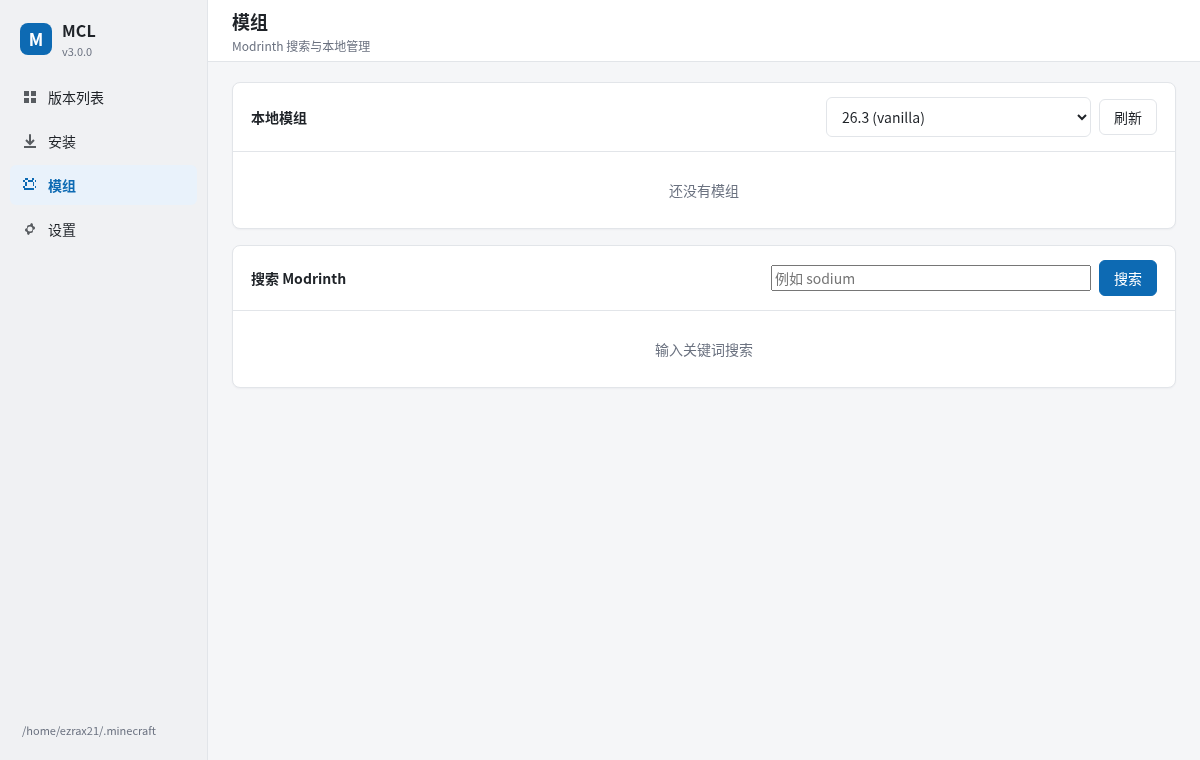
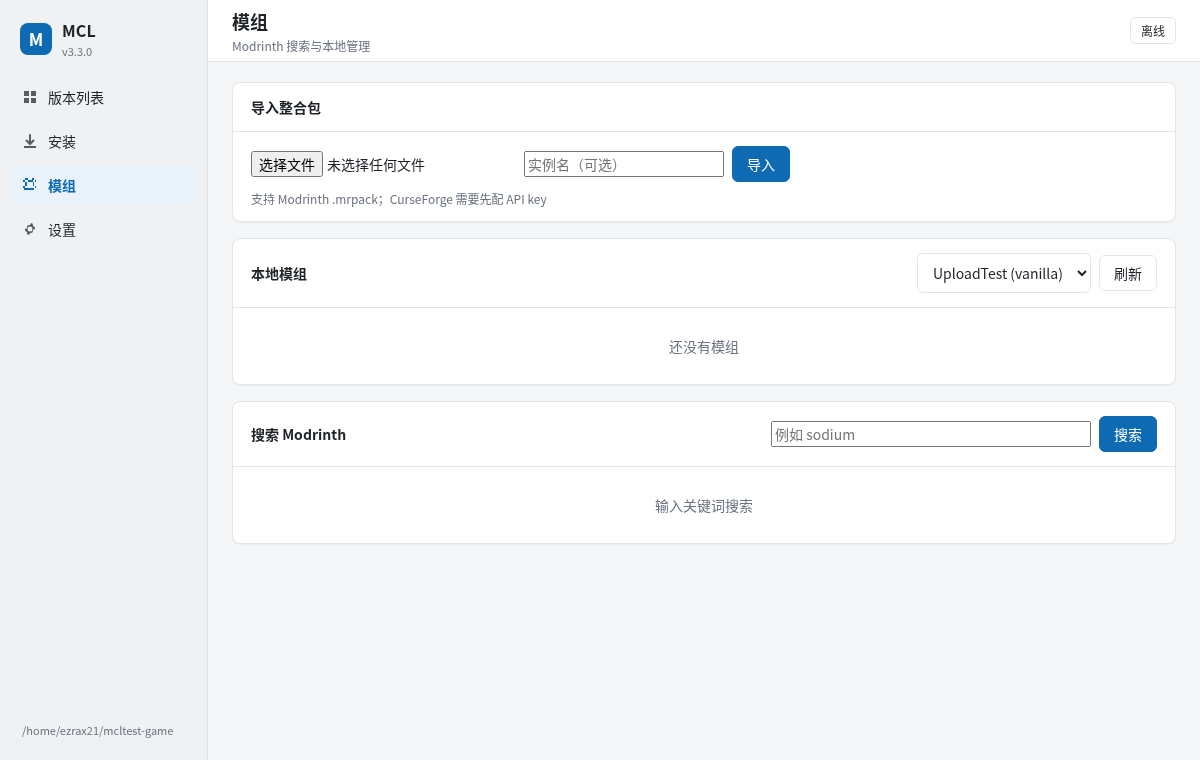
feat(modpack): CurseForge 整合包下载 + GUI 文件导入
- CurseForge manifest 通过 API 解析项目/文件，下载到 mods/，overrides 照常复制
- GUI 模组页新增「导入整合包」：选 .mrpack/.zip 上传，实例名可选
- 上传接口限制 512MB，临时文件装完即删
- 补上传接口测试，版本 3.4.0

diff --git a/gui/src/renderer.ts b/gui/src/renderer.ts
@@ -350,6 +350,17 @@ function renderMods(): void {
     `<option value="${esc(version.id)}" ${version.id === modsVersion ? "selected" : ""}>${esc(version.id)} (${esc(version.loader)})</option>`).join("");
   content.innerHTML = `
     <div class="card">
+      <div class="card-head"><span class="card-title">导入整合包</span></div>
+      <div class="card-body">
+        <div class="inline">
+          <input type="file" id="pack-file" accept=".mrpack,.zip" />
+          <input id="pack-name" placeholder="实例名（可选）" style="width:200px" />
+          <button class="btn primary" id="pack-import">导入</button>
+        </div>
+        <div class="small muted" style="margin-top:8px">支持 Modrinth .mrpack；CurseForge 需要先配 API key</div>
+      </div>
+    </div>
+    <div class="card">
       <div class="card-head">
         <span class="card-title">本地模组</span>
         <div class="inline">
@@ -376,6 +387,28 @@ function renderMods(): void {
   });
   content.querySelector("#mods-refresh")?.addEventListener("click", () => void loadLocalMods());
   content.querySelector("#mods-search")?.addEventListener("click", () => void searchMods());
+  content.querySelector("#pack-import")?.addEventListener("click", async () => {
+    const input = content.querySelector("#pack-file") as HTMLInputElement;
+    const file = input.files?.[0];
+    if (!file) { toast("先选一个 .mrpack / .zip", "error"); return; }
+    const name = (content.querySelector("#pack-name") as HTMLInputElement).value.trim();
+    try {
+      const response = await fetch("/api/modpack/install", {
+        method: "POST",
+        headers: {
+          "Content-Type": "application/octet-stream",
+          "X-Filename": encodeURIComponent(file.name),
+          "X-Pack-Name": encodeURIComponent(name),
+        },
+        body: await file.arrayBuffer(),
+      });
+      const data = await response.json();
+      if (!response.ok) throw new Error(data.error || response.statusText);
+      watchTask(data as TaskInfo, `导入 ${file.name}`);
+    } catch (error) {
+      toast((error as Error).message, "error");
+    }
+  });
   (content.querySelector("#mods-query") as HTMLInputElement).addEventListener("keydown", (event) => {
     if (event.key === "Enter") void searchMods();
   });

diff --git a/mcl/modpacks.py b/mcl/modpacks.py
@@ -33,6 +33,9 @@ class PackFile:
     urls: list[str] = field(default_factory=list)
     sha1: Optional[str] = None
     size: Optional[int] = None
+    project_id: Optional[int] = None
+    file_id: Optional[int] = None
+    required: bool = True
 
 
 @dataclass
@@ -127,12 +130,17 @@ def _inspect_curseforge(path: Path, archive: zipfile.ZipFile) -> PackInfo:
                 break
     overrides = sorted(name[len("overrides/"):] for name in archive.namelist()
                        if name.startswith("overrides/") and not name.endswith("/"))
+    files = [PackFile(path="", project_id=int(entry.get("projectID", 0)),
+                      file_id=int(entry.get("fileID", 0)),
+                      required=bool(entry.get("required", True)))
+             for entry in manifest.get("files") or []
+             if entry.get("projectID") and entry.get("fileID")]
     return PackInfo(
         path=path, format="curseforge", name=str(manifest.get("name") or path.stem),
         version=str(manifest.get("version") or ""),
         minecraft=str(minecraft.get("version") or ""), loader=loader,
-        loader_version=loader_version, overrides=overrides,
-        needs_curseforge_key=bool(manifest.get("files")),
+        loader_version=loader_version, files=files, overrides=overrides,
+        needs_curseforge_key=bool(files),
     )
 
 
@@ -175,11 +183,9 @@ def install(path: Path, cfg: Config, name: Optional[str] = None,
             on_phase=None, cancel=None) -> str:
     note = on_log or (lambda _message: None)
     info = inspect(path)
-    if info.needs_curseforge_key:
-        if not curseforge.api_key(cfg):
-            raise PackError("CurseForge 整合包需要先配置 CurseForge API key"
-                            "（设置 → CurseForge，或 mcl config set curseforge_api_key）")
-        raise PackError("CurseForge 整合包下载暂未接入，先用 Modrinth 的 .mrpack")
+    if info.needs_curseforge_key and not curseforge.api_key(cfg):
+        raise PackError("CurseForge 整合包需要先配置 CurseForge API key"
+                        "（设置 → CurseForge，或 mcl config set curseforge_api_key）")
     if not info.minecraft:
         raise PackError("整合包没有写 Minecraft 版本")
     if info.loader != "vanilla" and not info.loader_version:
@@ -216,21 +222,43 @@ def install(path: Path, cfg: Config, name: Optional[str] = None,
         json.dumps(profile, ensure_ascii=False, indent=2), encoding="utf-8")
 
     tasks: list[DownloadTask] = []
-    for pack_file in info.files:
-        relative = _safe_relative(pack_file.path)
-        if relative is None:
-            continue
-        destination = instance_dir / relative
-        destination.parent.mkdir(parents=True, exist_ok=True)
-        urls = sources.modrinth_candidates(pack_file.urls[0], cfg.download_source) \
-            if "modrinth" in pack_file.urls[0] else [pack_file.urls[0]]
-        alternates = tuple(urls[1:] + pack_file.urls[1:])
-        tasks.append(DownloadTask(url=urls[0], dest=destination,
-                                  sha1=pack_file.sha1, size=pack_file.size,
-                                  alternates=alternates))
+    if info.format == "modrinth":
+        for pack_file in info.files:
+            relative = _safe_relative(pack_file.path)
+            if relative is None:
+                continue
+            destination = instance_dir / relative
+            destination.parent.mkdir(parents=True, exist_ok=True)
+            urls = sources.modrinth_candidates(pack_file.urls[0], cfg.download_source) \
+                if "modrinth" in pack_file.urls[0] else [pack_file.urls[0]]
+            alternates = tuple(urls[1:] + pack_file.urls[1:])
+            tasks.append(DownloadTask(url=urls[0], dest=destination,
+                                      sha1=pack_file.sha1, size=pack_file.size,
+                                      alternates=alternates))
+    else:
+        key = curseforge.require_key(cfg)
+        for pack_file in info.files:
+            if not pack_file.required:
+                continue
+            try:
+                cf_file = curseforge.file(pack_file.project_id, pack_file.file_id,
+                                          key=key, config=cfg)
+                url = curseforge.file_download_url(cf_file, key, cfg)
+            except curseforge.CurseForgeError as exc:
+                note(f"跳过 {pack_file.project_id}/{pack_file.file_id}：{exc}")
+                continue
+            if not url:
+                note(f"跳过 {pack_file.project_id}/{pack_file.file_id}：没有下载链接")
+                continue
+            destination = instance_dir / "mods" / curseforge.primary_file_name(cf_file)
+            destination.parent.mkdir(parents=True, exist_ok=True)
+            tasks.append(DownloadTask(url=url, dest=destination,
+                                      size=cf_file.get("fileLength")))
+
     note(f"下载 {len(tasks)} 个模组文件 …")
-    result = run_tasks(tasks, jobs=cfg.jobs, cancel=cancel,
-                       progress=None)
+    total_bytes = sum(task.size or 0 for task in tasks)
+    sink = on_phase("模组文件", len(tasks), total_bytes) if on_phase else None
+    result = run_tasks(tasks, jobs=cfg.jobs, cancel=cancel, progress=sink)
     if result.errors:
         raise PackError(result.errors[0])
 

diff --git a/mcl/webui.py b/mcl/webui.py
@@ -5,6 +5,7 @@ from __future__ import annotations
 import json
 import mimetypes
 import os
+import tempfile
 import threading
 import uuid
 import webbrowser
@@ -13,7 +14,7 @@ from pathlib import Path
 from typing import Optional
 from urllib.parse import parse_qs, unquote, urlparse
 
-from . import __version__, auth, loaders, modrinth
+from . import __version__, auth, loaders, modpacks, modrinth
 from .mods import find as find_mods, list_mods, remove as remove_mod, set_enabled
 from .config import Config, config_path
 from .installer import build_plan, execute
@@ -239,6 +240,37 @@ def start_login(client_id: str) -> dict:
     return task
 
 
+def start_modpack(data: bytes, filename: str, name: str = "") -> dict:
+    cfg = _ACTIVE_CFG
+    suffix = Path(filename).suffix or ".mrpack"
+    handle, path_text = tempfile.mkstemp(prefix="mcl-pack-", suffix=suffix)
+    with os.fdopen(handle, "wb") as handle_file:
+        handle_file.write(data)
+    path = Path(path_text)
+    task = _new_task("modpack")
+
+    def run() -> None:
+        try:
+            version_id = modpacks.install(
+                path, cfg, name=name or None,
+                on_log=lambda message: _log(task, message),
+                on_phase=lambda label, files, size: _progress(task, label, files, size),
+            )
+            task["result"] = {"version": version_id}
+            task["state"] = "done"
+        except Exception as exc:  # noqa: BLE001
+            task["error"] = str(exc)
+            task["state"] = "error"
+        finally:
+            try:
+                path.unlink()
+            except OSError:
+                pass
+
+    threading.Thread(target=run, daemon=True).start()
+    return task
+
+
 def launch_version(version_id: str) -> dict:
     cfg = _ACTIVE_CFG
     resolved = resolve(cfg.root(), version_id)
@@ -282,6 +314,14 @@ class Handler(BaseHTTPRequestHandler):
         self.send_header("Content-Length", str(len(body)))
         self.end_headers()
         self.wfile.write(body)
+
+    def _raw_body(self) -> bytes:
+        length = int(self.headers.get("Content-Length") or 0)
+        if length <= 0:
+            return b""
+        if length > 512 * 1024 * 1024:
+            raise RuntimeError("整合包太大了（上限 512 MB）")
+        return self.rfile.read(length)
 
     def _body(self) -> dict:
         length = int(self.headers.get("Content-Length") or 0)
@@ -361,6 +401,10 @@ class Handler(BaseHTTPRequestHandler):
     def do_POST(self) -> None:  # noqa: N802
         parsed = urlparse(self.path)
         try:
+            if parsed.path == "/api/modpack/install":
+                filename = unquote(self.headers.get("X-Filename", "pack.mrpack"))
+                name = unquote(self.headers.get("X-Pack-Name", ""))
+                return self._json(start_modpack(self._raw_body(), filename, name))
             body = self._body()
             if parsed.path == "/api/install":
                 return self._json(start_install(body.get("id", ""), bool(body.get("assets", True))))

diff --git a/tests/test_webui.py b/tests/test_webui.py
@@ -1,10 +1,13 @@
 """GUI 后端 API 的测试（本地 HTTP，不联网）。"""
 
+import io
 import json
 import os
 import tempfile
+import time
 import unittest
 import urllib.request
+import zipfile
 from pathlib import Path
 
 from mcl.config import Config
@@ -13,6 +16,12 @@ from mcl.webui import serve
 
 def get_json(url: str) -> dict:
     with urllib.request.urlopen(url, timeout=10) as response:
+        return json.loads(response.read().decode("utf-8"))
+
+
+def post_bytes(url: str, payload: bytes, headers: dict) -> dict:
+    request = urllib.request.Request(url, data=payload, headers=headers, method="POST")
+    with urllib.request.urlopen(request, timeout=10) as response:
         return json.loads(response.read().decode("utf-8"))
 
 
@@ -66,6 +75,38 @@ class WebuiTests(unittest.TestCase):
         self.assertEqual(Config.load().theme, "dark")
         post_json(self.url + "api/config", {"theme": "system"})
         self.assertEqual(Config.load().theme, "system")
+
+    def test_modpack_upload(self):
+        root = Path(self.tmp.name) / "game"
+        version_dir = root / "versions" / "1.20.1"
+        version_dir.mkdir(parents=True)
+        (version_dir / "1.20.1.json").write_text(json.dumps({
+            "id": "1.20.1", "type": "release", "mainClass": "x",
+            "javaVersion": {"majorVersion": 17},
+            "downloads": {"client": {"url": "u", "sha1": "a", "size": 1}},
+        }))
+        buffer = io.BytesIO()
+        with zipfile.ZipFile(buffer, "w") as archive:
+            archive.writestr("modrinth.index.json", json.dumps({
+                "formatVersion": 1, "game": "minecraft", "versionId": "1.0",
+                "name": "Upload Test", "dependencies": {"minecraft": "1.20.1"},
+                "files": [],
+            }))
+            archive.writestr("overrides/config/upload.txt", "hello")
+        task = post_bytes(self.url + "api/modpack/install", buffer.getvalue(), {
+            "Content-Type": "application/octet-stream",
+            "X-Filename": "pack.mrpack",
+            "X-Pack-Name": "UploadTest",
+        })
+        for _ in range(50):
+            with urllib.request.urlopen(self.url + f"api/task/{task['id']}", timeout=10) as response:
+                task = json.loads(response.read().decode("utf-8"))
+            if task["state"] != "running":
+                break
+            time.sleep(0.1)
+        self.assertEqual(task["state"], "done", task.get("error"))
+        self.assertEqual(task["result"]["version"], "UploadTest")
+        self.assertTrue((root / "versions" / "UploadTest" / "config" / "upload.txt").exists())
 
     def test_unknown_api(self):
         with self.assertRaises(urllib.error.HTTPError) as ctx:

diff --git a/mcl/curseforge.py b/mcl/curseforge.py
@@ -110,6 +110,15 @@ def search(query: str, loader: Optional[str] = None, game_version: Optional[str]
     return hits
 
 
+def file(mod_id: int, file_id: int, key: Optional[str] = None,
+         config=None) -> dict:
+    key = key or require_key(config)
+    data = _get(f"/mods/{mod_id}/files/{file_id}", key)
+    if not isinstance(data, dict) or "data" not in data:
+        raise CurseForgeError(f"CurseForge 文件 {mod_id}/{file_id} 不存在")
+    return data["data"]
+
+
 def files(mod_id: int, loader: Optional[str] = None, game_version: Optional[str] = None,
           key: Optional[str] = None, config=None) -> list[dict]:
     key = key or require_key(config)

diff --git a/mcl/__init__.py b/mcl/__init__.py
@@ -1,3 +1,3 @@
 """mcl —— Minecraft 下载、版本管理、加载器 / 模组管理、启动。"""
 
-__version__ = "3.3.0"
+__version__ = "3.4.0"

diff --git a/README.md b/README.md
@@ -9,7 +9,7 @@ PCL 2.99 起不再提供游戏本体下载。这个项目把「下载 → 装加
 ## 界面
 
 ```
-┌ mcl ───────────────────────────── v3.3.0 · Minecraft 启动器 ─┐
+┌ mcl ───────────────────────────── v3.4.0 · Minecraft 启动器 ─┐
 │ 版本 │ 安装 │ 模组 │ 设置                                              │
 ├──────────────────────────────────────────────────────────────────────┤
 │ 版本                    加载器      Java    模组   客户端             │
@@ -199,8 +199,8 @@ mcl modpack install Fabulously.Optimized.mrpack --name "FO 1.20.1"
 mcl launch "FO 1.20.1"
 ```
 
-CurseForge 的整合包能识别 `manifest.json`，但拉文件要 CurseForge API key；
-配置好 key 后目前会提示「下载暂未接入」，下一步补。
+CurseForge 的整合包也能导，但需要先在设置里填 CurseForge API key。
+GUI 的「模组」页可以直接选文件导入，不用敲命令。
 
 ## 命令行模式
 
@@ -341,7 +341,7 @@ mclauncher/
 │   ├── prompts.py      questionary 封装（CLI 用）
 │   ├── home.py         CLI 文本菜单
 │   └── ui.py           颜色 / 对齐 / 摘要框
-├── tests/              91 个测试（含无头 TUI、GUI API、微软登录、整合包）
+├── tests/              92 个测试（含无头 TUI、GUI API、微软登录、整合包）
 ├── packaging/          PKGBUILD、.desktop
 ├── run.sh / run.bat    开发用启动脚本
 └── pyproject.toml
